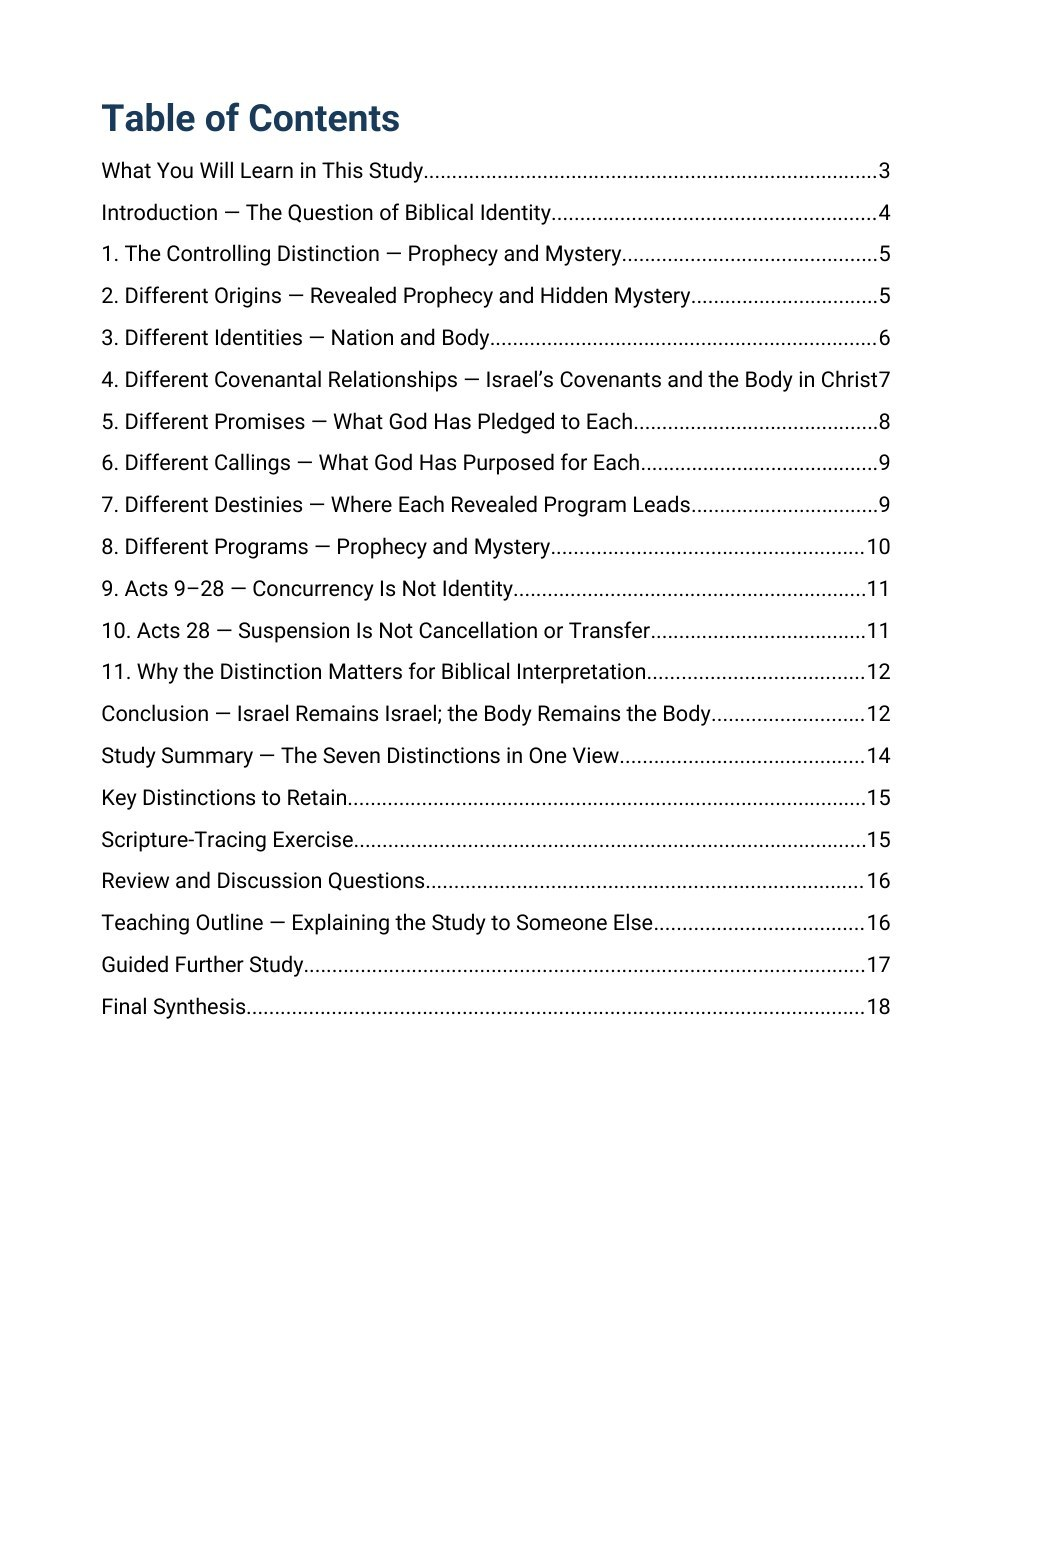
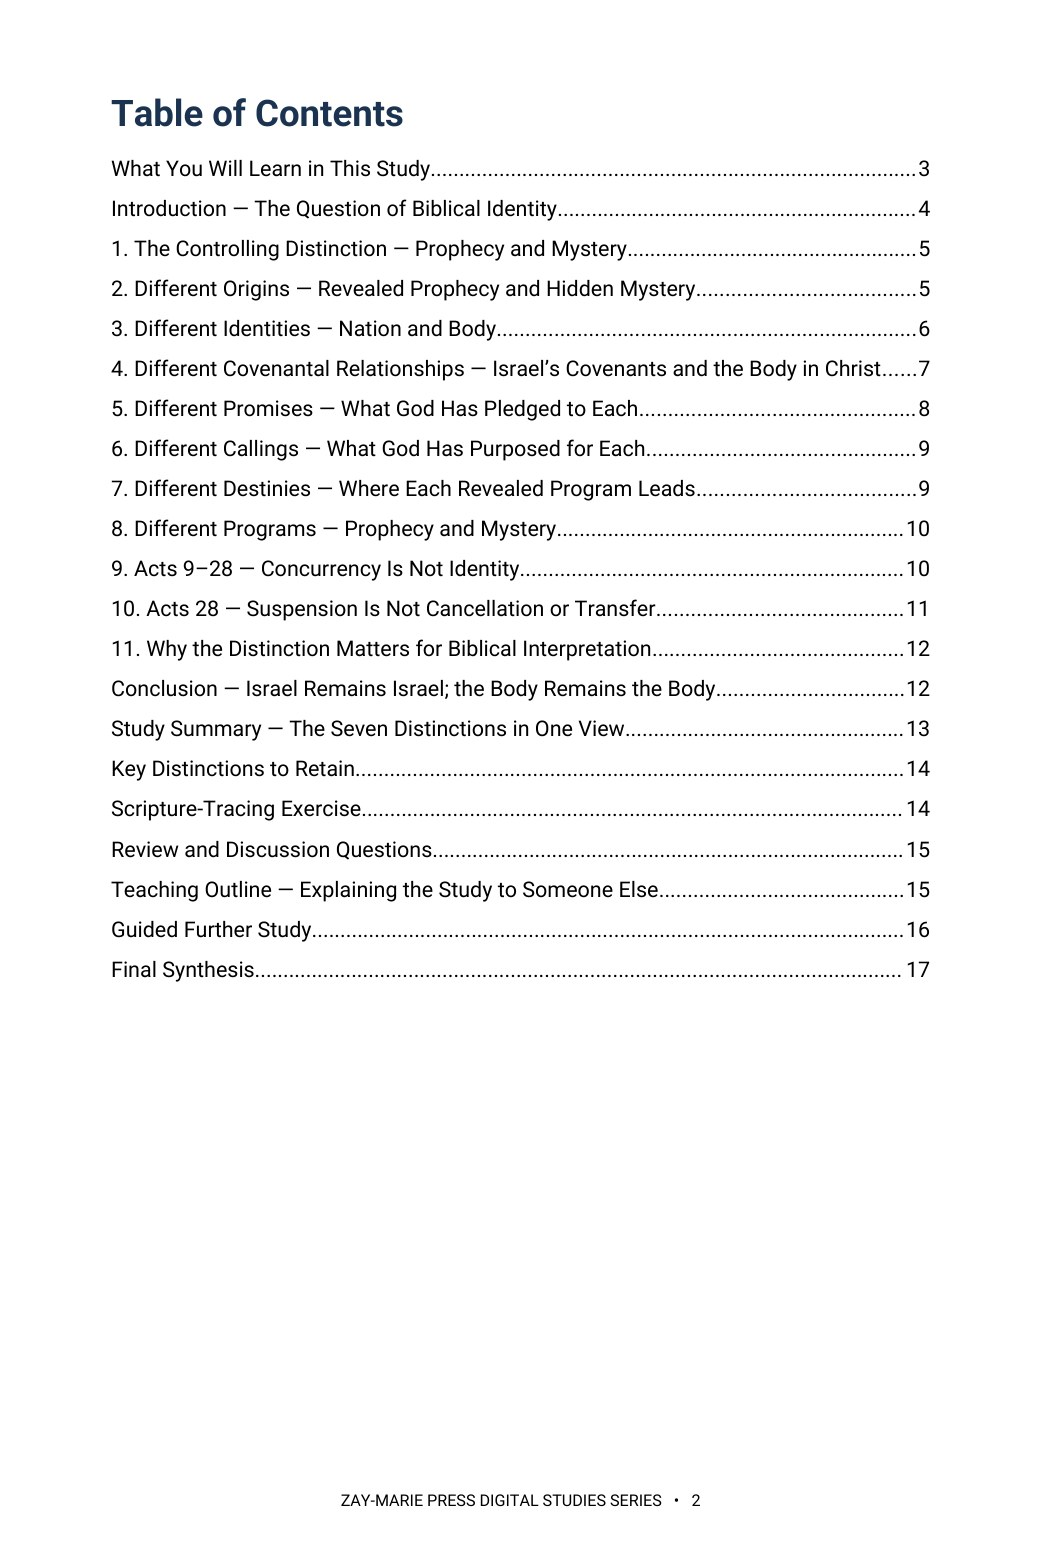
Study 4: rebuilt in Roboto at 10 pt on the current page, 17 pages; previews and trackers updated
Claude-Session: https://claude.ai/code/session_01HC7bs9KYP2scp4hCL6DkTp

diff --git a/study-04-israel-and-the-body-of-christ.html b/study-04-israel-and-the-body-of-christ.html
@@ -49,7 +49,7 @@
 <div class="preview-card"><a class="preview-image-link" data-preview-lightbox href="assets/study-04-page-6.jpg"><img src="assets/study-04-page-6.jpg" alt="Study 4 interior preview — page 6, Different Identities: Nation and Body"/></a><div class="page-no">Page 6</div><h3>Different Identities: Nation and Body</h3><p>Examine Israel’s national and covenantal identity alongside the Body’s distinct corporate identity as one Body in Christ.</p></div>
 </div></div></section>
 <section class="detail-section"><div class="wrap"><div class="eyebrow">WHAT’S INCLUDED</div><h2>A Focused Study Built for<br/>Understanding and Teaching</h2><div class="includes-grid">
-<div class="include-item"><h3>18-Page In-Depth Biblical Study</h3><p>A sustained biblical case for distinguishing Israel and the Body of Christ across seven controlling categories.</p></div>
+<div class="include-item"><h3>17-Page In-Depth Biblical Study</h3><p>A sustained biblical case for distinguishing Israel and the Body of Christ across seven controlling categories.</p></div>
 <div class="include-item"><h3>11 Core Teaching Sections</h3><p>Progress from Prophecy and Mystery through the seven distinctions, the Acts Overlap, Acts 28, and interpretive application.</p></div>
 <div class="include-item"><h3>Seven-Distinction Summary</h3><p>Compare origins, identities, covenantal relationships, promises, callings, destinies, and programs in one view.</p></div>
 <div class="include-item"><h3>Scripture-Tracing Exercise</h3><p>Record each passage’s people, promise or identity, revelatory program, and contribution to the Israel–Body distinction.</p></div>
@@ -58,7 +58,7 @@
 <div class="include-item"><h3>Seven Guided Investigations</h3><p>Trace Israel’s promises, covenant recipients, Body terminology, distinct callings, Acts 3 and Romans 16, the overlap, and promise application.</p></div>
 <div class="include-item"><h3>Final Synthesis Exercise</h3><p>Build a two- to three-page explanation using all seven distinctions and the three governing controls.</p></div>
 </div></div></section>
-<section class="detail-section cream"><div class="wrap"><div class="final-buy"><div><div class="eyebrow">STUDY 4 · DIGITAL STUDY</div><h2>Israel and the Body of Christ</h2><p>18-page digital PDF · For personal use</p></div><div class="final-offer"><div class="detail-price">$5.99</div><span class="detail-button pending" aria-disabled="true">Get the Study</span></div></div><a class="back-link" href="digital-studies.html">← Back to All Digital Studies</a></div></section>
+<section class="detail-section cream"><div class="wrap"><div class="final-buy"><div><div class="eyebrow">STUDY 4 · DIGITAL STUDY</div><h2>Israel and the Body of Christ</h2><p>17-page digital PDF · For personal use</p></div><div class="final-offer"><div class="detail-price">$5.99</div><span class="detail-button pending" aria-disabled="true">Get the Study</span></div></div><a class="back-link" href="digital-studies.html">← Back to All Digital Studies</a></div></section>
 <section class="study-method-course-bridge"><div class="wrap"><div class="study-method-course-panel"><div><div class="eyebrow">BUILD THE INTERPRETIVE METHOD</div><h2>Want More Than a Focused Study?</h2><p>Digital Studies examine particular biblical subjects and difficult passages. The 40-lesson Biblical Hermeneutics course teaches a complete, repeatable method for establishing meaning in context, determining proper assignment, and making responsible application.</p></div><a class="btn btn-primary" href="biblical-hermeneutics-course.html">BIBLICAL HERMENEUTICS COURSE</a></div></div></section></main><div class="preview-lightbox" id="preview-lightbox" role="dialog" aria-modal="true" aria-label="Enlarged study page preview"><button class="preview-lightbox-close" type="button" aria-label="Close enlarged preview">×</button><img src="" alt=""/><div class="preview-lightbox-hint">Scroll to read the full page · Press Esc or click outside the page to close</div></div>
 <footer class="site-footer"><div class="wrap footer-grid"><div class="footer-about"><h3>Zay-Marie Press</h3><p class="footer-tagline"><em>Where the Bible Means What It Says.</em></p><p>Zay-Marie Press is a Christian theological publisher dedicated to producing doctrinally precise, carefully structured biblical resources that equip pastors, teachers, and serious students with clarity, depth, and Scripture-anchored truth.</p><p><a href="https://zaymariepress.com">zaymariepress.com</a><br/><a href="mailto:info@zaymariepress.com">info@zaymariepress.com</a></p></div><div class="footer-column"><h3>Explore</h3><div class="footer-links-stacked"><a href="books.html">Books</a><br/><a href="series.html">Series</a><br/><a href="biblical-hermeneutics-course.html">Course</a><br/><a href="digital-studies.html">Digital Studies</a><br/><a href="resources.html">Resources</a><br/><a href="bible-book-summaries.html">Bible Book Summaries</a><br/><a href="doctrinal-packets.html">Doctrinal Packets</a><br/><a href="historical-drift.html">Historical Drift</a><br/><a href="about.html">About</a><br/><a href="contact.html">Contact</a></div></div><div class="footer-column"><h3>Reader Support</h3><div class="footer-links-stacked"><a href="reader-support.html#faq">FAQ</a><br/><a href="reader-support.html#shipping-returns">Shipping &amp; Returns</a><br/><a href="reader-support.html#digital-downloads">Digital Downloads</a><br/><a href="reader-support.html#contact-support">Contact Support</a></div></div><div class="footer-column"><h3>Acts Overlap</h3><p><strong>Acts Overlap Theology Series</strong></p><p><em>Two Distinct Streams. One Overlap.</em></p><p><a href="series.html">Series Overview</a></p></div></div><div class="wrap footer-bottom">© 2026 Zay-Marie Press. All rights reserved.</div></footer>
 <script src="site.js"></script><script>(function(){var box=document.getElementById("preview-lightbox"),img=box.querySelector("img"),close=box.querySelector(".preview-lightbox-close"),hint=box.querySelector(".preview-lightbox-hint"),hintTimer;function shut(){clearTimeout(hintTimer);box.classList.remove("open");hint.classList.remove("fade");document.body.style.overflow="";img.src="";}document.querySelectorAll("[data-preview-lightbox]").forEach(function(a){a.addEventListener("click",function(e){e.preventDefault();clearTimeout(hintTimer);img.src=a.getAttribute("href");img.alt=a.querySelector("img").alt;hint.classList.remove("fade");box.classList.add("open");document.body.style.overflow="hidden";box.scrollTop=0;hintTimer=setTimeout(function(){hint.classList.add("fade");},3000);});});close.addEventListener("click",shut);box.addEventListener("click",function(e){if(e.target===box)shut();});document.addEventListener("keydown",function(e){if(e.key==="Escape"&&box.classList.contains("open"))shut();});})();</script>

diff --git a/site.js b/site.js
@@ -62,7 +62,7 @@ const resourceModal=document.querySelector('#resource-modal'), resourceModalTitl
 if(resourceModal&&resourceModalTriggers.length){const closeResourceModal=()=>{resourceModal.hidden=true;document.body.classList.remove('resource-modal-open');lastResourceTrigger?.focus();};resourceModalTriggers.forEach(trigger=>trigger.addEventListener('click',()=>{lastResourceTrigger=trigger;if(resourceModalTitle)resourceModalTitle.textContent=trigger.dataset.title||'Resource';if(resourceModalDescription)resourceModalDescription.textContent=trigger.dataset.description||'';if(resourceModalLink){resourceModalLink.href=trigger.dataset.href||'#';resourceModalLink.textContent=trigger.dataset.linkText||'OPEN RESOURCE';}resourceModal.hidden=false;document.body.classList.add('resource-modal-open');resourceModalClose?.focus();}));resourceModalClose?.addEventListener('click',closeResourceModal);resourceModal.addEventListener('click',e=>{if(e.target===resourceModal)closeResourceModal();});document.addEventListener('keydown',e=>{if(e.key==='Escape'&&!resourceModal.hidden)closeResourceModal();});}
 
 /* Display the verified final-PDF page count at the primary purchase decision point. */
-const digitalStudyPageCounts={1:17,2:19,3:16,4:18,5:16,6:16,7:14,8:13,9:16,10:20,11:15,12:15,13:19,14:15,15:15,16:16,17:18,18:18,19:16,20:16,21:17,22:16,23:14,24:16,25:17,26:16,27:16,28:16,29:19,30:17,31:18,32:19,33:18,34:16,35:16,36:16,37:16,38:16,39:16,40:16,41:16,42:17,43:17,44:19,45:19,46:20,47:19,48:18,49:20,50:19,51:20,52:19,53:19,54:17,55:20,56:20,57:20,58:19,59:20,60:15,61:16,62:18,63:17,64:17,65:16,66:16,67:17,68:16,69:17,70:17,71:16};
+const digitalStudyPageCounts={1:17,2:19,3:16,4:17,5:16,6:16,7:14,8:13,9:16,10:20,11:15,12:15,13:19,14:15,15:15,16:16,17:18,18:18,19:16,20:16,21:17,22:16,23:14,24:16,25:17,26:16,27:16,28:16,29:19,30:17,31:18,32:19,33:18,34:16,35:16,36:16,37:16,38:16,39:16,40:16,41:16,42:17,43:17,44:19,45:19,46:20,47:19,48:18,49:20,50:19,51:20,52:19,53:19,54:17,55:20,56:20,57:20,58:19,59:20,60:15,61:16,62:18,63:17,64:17,65:16,66:16,67:17,68:16,69:17,70:17,71:16};
 const digitalStudyMatch=window.location.pathname.match(/\/study-(\d+)-/i);
 const digitalStudyFormat=document.querySelector('.detail-hero .detail-format');
 if(digitalStudyMatch&&digitalStudyFormat){const studyNumber=Number(digitalStudyMatch[1]),pageCount=digitalStudyPageCounts[studyNumber];if(pageCount)digitalStudyFormat.textContent=`Digital PDF · ${pageCount} Pages`;}

diff --git a/CLAUDE.md b/CLAUDE.md
@@ -23,7 +23,7 @@ These are kept in the repo at `controlling-documents/` and are the current versi
 - As of v1.50 (publisher directive, 2026-10-03), the **What You Will Learn in This Study** section is always bulleted, never set as running paragraphs, written into this file in the same pass (Master Standard Section 3 item 4, Section 6 structure line, Section 22): a list of bullet points, each describing one process, textual marker or interpretive discipline the reader will practice (Section 17 still governs what they may say); at most one short lead-in line may stand above the bullets (for example, “By the end of this study, you should be able to:”); the Study Goal callout and the Study Outline keep their own forms. It governs every new study and every study rebuilt or retrofitted from now on; earlier studies take it when reopened or when the publisher directs. In every study check (Step 1), report whether the section is bulleted. First applied to Study 43.
 **`controlling-documents/Digital_Studies_Relationship_Map_v1.39.md`** — records each study's distinct subject, its related studies, the eight priced six-study collections, the Paul's Missionary Journeys cross-reference map, and the five primary catalog categories (currently version 1.39, covers Studies 1–71; update it as new studies publish, bump the version number, rename the file to match, and log the change in its own version-history table — mirroring the Master Standard's `_vX.Y` filename convention). Check a proposed topic against it before recommending or writing a new study. (2026-09-28: the file was missing from this repo despite this note referencing it; replaced from the publisher's copy and bumped v1.15→v1.25 in the same pass. If this note ever again points to a version not present under `controlling-documents/`, ask the publisher for a copy rather than proceeding without the check.)
 - **`controlling-documents/Digital_Studies_Category_Standard_v1.1.md`** — FINAL and binding (publisher, 2026-10-01): the rules for the five primary catalog categories (Foundations, Israel & Prophecy, Body of Christ, Passages, Doctrinal Themes), the ordered decision procedure for new studies, the precedents, all 71 fixed assignments, and the cover-label form for each category. Read it before placing any card or cover label. Do not ask the publisher where a study belongs; apply the procedure and state the result. Only the publisher changes a ruling; then bump this Standard's version and filename, re-letter the cover, and update the Relationship Map.
-- **`controlling-documents/Doctrinal_Upgrade_Retrofit_Plan_v1.95.md`** — working tracker for retrofitting Studies 1–59 to the 2026-10-02 doctrinal upgrade (Framework/PAM v1.1, Master Standard v1.40, Rules 7–17): withdrawn-wording search keys, impact tiers, waves and the per-study method. Read it before continuing the retrofit in any session; update status, bump the version and rename the file as work proceeds.
+- **`controlling-documents/Doctrinal_Upgrade_Retrofit_Plan_v1.96.md`** — working tracker for retrofitting Studies 1–59 to the 2026-10-02 doctrinal upgrade (Framework/PAM v1.1, Master Standard v1.40, Rules 7–17): withdrawn-wording search keys, impact tiers, waves and the per-study method. Read it before continuing the retrofit in any session; update status, bump the version and rename the file as work proceeds.
 - **`controlling-documents/Doctrinal_Packet_Standard_v0.3.md`** — Doctrinal Packet Standard (DRAFT; §7 approved). Governs the separate Doctrinal Packets product strand (5-page interpretive PDFs per Bible book — a print-friendly cover as page 1 plus 4 content pages, $2.99, KJV, pilot: Genesis, live at `packet-genesis.html`, hub `doctrinal-packets.html`; site pages say "5 Pages", cover styles live in `packets.css`, Old Testament blue and New Testament soft pale green, hub listed in Bible order). **Preview rule (publisher directive, 2026-09-29, packets only):** previews show about one page's worth in two cropped views (top of page 1 through the anchor texts; the chart section) — never the exegesis, architecture, Mystery contrast, logic chain, outline, or closing. Master Standard §16/§17 still govern Digital Studies. Bump the version and rename the file as the Standard is finalized.
 - **`controlling-documents/Preview_Page_Spoiler_Retrofit_Audit_v1.4.md`** — working tracker for the Studies 1–60 preview-page conclusion-spoiler retrofit (see the section below). Read it before continuing that audit in any session; update its status fields and changelog, bump the version, and rename the file to match as the audit proceeds — same `_vX.Y` convention as the other controlling documents. As of v1.1, the website-side half was DONE: all 60 studies' "What You'll Study" text was judged against the rule (methodology documented in the file) and 22 points across 11 studies were rewritten and pushed; an unrelated Study 22 content bug (Study 21's content had leaked into it) was also found and fixed. As of v1.2, the publisher supplied Studies 1–60's interior production PDFs and the interior-PDF half was also surveyed (read-only): 10 studies (37, 41, 45, 47, 48, 49, 51, 52, 53, 54) were found to have at least one interior "What You Will Learn" violation, 50 studies were confirmed compliant, and the orphaned `assets/study-45-sanctification-under-grace.docx` (removed from the repo per the publisher in v1.0) was confirmed word-for-word identical to Study 45's actual production interior PDF content. As of v1.3, the publisher supplied editable DOCX sources for all 10 violating studies; all 15 violating points were rewritten and approved, delivered as corrected final PDFs, and — along the way — a second defect was found and fixed (Studies 47 and 48's source DOCX still had an unintegrated cover placeholder despite both being long-published live with real covers; fixed by inserting the existing approved cover art). The website's "What You Will Learn" preview image (`study-NN-page-3.jpg`) was regenerated from the corrected content for all 10 studies and pushed to `main` (commit `cea1859`), verified against a fresh clone. **The website side of this audit is now fully compliant for all 60 studies.** Outstanding: the publisher's purchasable interior PDF files themselves have corrected versions delivered, but distribution to existing purchasers was decided by the publisher on 2026-09-29: silent swap of the files behind the existing downloads, no reissue notice (recorded in the v1.4 changelog entry; the product files are not in this repo).
 

diff --git a/controlling-documents/Doctrinal_Upgrade_Retrofit_Plan_v1.96.md b/controlling-documents/Doctrinal_Upgrade_Retrofit_Plan_v1.96.md
@@ -188,3 +188,4 @@ Working tracker for correcting published studies to the Framework/PAM v1.1, Mast
 - v1.93 (2026-10-03): Study 70 rebuilt in Roboto at 10 pt on the current page from the publisher's PDF (no DOCX or approved FINAL supplied; text taken from the PDF word for word), 17 pages (cover plus 16; was 16). Changes: What You Will Learn set as bullets under one lead-in (closing paragraph removed; bullet 7 reworded to a process line); six callouts reduced to five (A Person and a Group became a run-in paragraph, wording unchanged); Teaching Outline numerals changed to 1–8; split water-and-Spirit table merged; orphan imprint fixed with layout-only keep-with-next; reader-facing wording: two "framework of this series" references (8.1, 8.2) and "controlling framework" replaced; standing wording applied: the reader-facing passage sentence added at the end of 8.1 (John 3, no entry of its own). No withdrawn doctrinal wording found. pdffonts confirms Roboto only. Previews 2, 3 and 5 re-rendered; site.js and page text updated. Batch 62–70 complete; Studies 61 and 71 (PDF-only first retrofits) remain.
 - v1.94 (2026-10-03): Study 71 rebuilt in Roboto at 10 pt on the current page from the publisher's PDF (first retrofit; no DOCX supplied; text taken from the PDF word for word), 16 pages (cover plus 15; unchanged). Changes: What You Will Learn set as bullets under one lead-in (closing paragraph removed); six callouts reduced to five (A Promise That Names a Line became a run-in paragraph, wording unchanged); Teaching Outline numerals changed to 1–8; split two-lists table merged; reader-facing wording: "The Framework of this series places…" (8.1) and "the study's framework" replaced. No withdrawn doctrinal wording found; no standing-sentence additions needed. pdffonts confirms Roboto only. Previews 2, 3 and 5 re-rendered. Study 60 PDF reviewed read-only: already in the current format, no change. Study 61 (PDF-only first retrofit) remains.
 - v1.95 (2026-10-03): Wave 5 website-side sweep re-run (read-only, then one fix). Checked all 71 study pages: site.js has all 71 counts; page text matches site.js and the N-1 interior line for every study; all asset links resolve; catalog cards, connections entries and the '71 studies' counts are complete; no internal working terms (Framework as a control document, PAM, Program Assignment, Master Standard, firewall) and no withdrawn wording (shared ground, gathered into the Body, identity not program membership) in any page; remaining 'framework' and 'spiritual Israel' hits are ordinary teaching wording or tested labels; remaining 'finished work' hits are the publisher's KEEP rulings (v1.53). Fixed: sitemap.xml listed a dead URL for Study 32 (study-32-the-new-testament-and-the-new-covenant.html); corrected to study-32-covenant-theology-and-dispensational-theology.html. Preview images on Studies 4, 5, 6, 9, 11, 13, 17, 19–22, 24, 25, 27, 28, 30 and 34–41 are 1041×1565 (old page shape) and Study 61's are 1041×1347; these follow each study's rebuild. Still open: imprint KJV-sentence ruling (Studies 1, 21, 23, 26, 29, 31, 32, 33), Study 1 navy Investigation headings, footer alignment, Rule 18 full sentence for Study 21, held-back KJV tables (19–21, 25, 28), Romans 11 depth (9, 35, 36; possibly 21, 50, 55), Study 31 line 232, Study 58 eyebrow, Study 43 page-8 preview, Study 44 Acts-era-signs ruling, Study 48 TOC line, Genesis Doctrinal Packet check.
+- v1.96 (2026-10-04): Study 4 rebuilt in Roboto at 10 pt on the current page (first of the old-page-size items), 17 pages (was 18). Rule 19 wording corrected in section 4; overlap and Rule 17 sentences added; resumption wording softened; What You Will Learn bullets reworded to process lines. Callouts already 5. Previews 2, 3 and 6 re-rendered at 1041×1562; site.js 4:17; study page text 17 Pages.

diff --git a/controlling-documents/Digital_Studies_PAM_Audit_v1.190.md b/controlling-documents/Digital_Studies_PAM_Audit_v1.190.md
@@ -419,3 +419,4 @@ Study 15 PDF not yet supplied. Typography: none of Studies 2, 3, 6, 8 is in EB G
 - v1.187 (2026-10-03): Study 70 rebuilt in Roboto at 10 pt, 17 pages; Framework references removed from reader text (see Retrofit Plan v1.93).
 - v1.188 (2026-10-03): Study 71 rebuilt in Roboto at 10 pt, 16 pages; Framework references removed from reader text (see Retrofit Plan v1.94).
 - v1.189 (2026-10-03): Wave 5 website sweep re-run; Study 32 sitemap URL corrected (see Retrofit Plan v1.95).
+- v1.190 (2026-10-04): Study 4 rebuilt in Roboto at 10 pt on the current page from the publisher's DOCX, 17 pages (was 18; old 432×648 page retired). Changes: What You Will Learn set as bullets under one lead-in (bullets 3, 4 and 9 reworded as process lines); Rule 19 correction in section 4 (finished-work/saving-efficacy sentences replaced); overlap and Rule 17 sentences added to section 9; section 10 resumption wording softened; outlines numbered 1–N (see Retrofit Plan v1.96).
